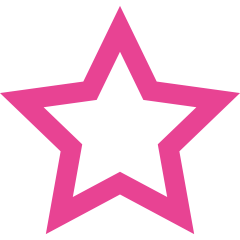
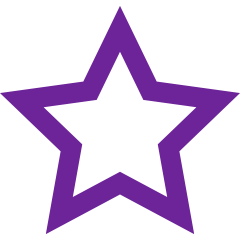
Update Board component

Changed region(s): [[0.0, 0.0292, 1.0, 0.9917]]

diff --git a/src/Components/BoardCard.js b/src/Components/BoardCard.js
@@ -1,14 +1,16 @@
-import React from "react";
+import React, { useState } from "react";
 import styled from "styled-components";
 import twitchLogo from "../Assets/Twitch/TwitchLogo.png";
-import emptyStar from "../Assets/Common/EmptyStar.png";
+// import emptyStar from "../Assets/Common/EmptyStar.png";
 import fullStar from "../Assets/Common/FullStar.png";
+// import lightEmptyStar from "../Assets/Common/LightEmptyStar.png";
+import lightFullStar from "../Assets/Common/LightFullStar.png";
 // import emblemIron from "../Assets/League/EmblemIron.png";
 // import emblemBronze from "../Assets/League/EmblemBronze.png";
 // import emblemSilver from "../Assets/League/EmblemSilver.png";
 // import emblemGold from "../Assets/League/EmblemGold.png";
-import emblemPlatinum from "../Assets/League/EmblemPlatinum.png";
-// import emblemDiamond from "../Assets/League/EmblemDiamond.png";
+// import emblemPlatinum from "../Assets/League/EmblemPlatinum.png";
+import emblemDiamond from "../Assets/League/EmblemDiamond.png";
 // import emblemMaster from "../Assets/League/EmblemMaster.png";
 // import emblemGrandmaster from "../Assets/League/EmblemGrandmaster.png";
 // import emblemChallenger from "../Assets/League/EmblemChallenger.png";
@@ -74,7 +76,7 @@ const BroadPlatform = styled.div`
 `;
 
 const LeagueSNameBox = styled.div`
-  width: 19%;
+  width: 17%;
   display: flex;
   justify-content: flex-start;
   align-items: center;
@@ -122,7 +124,7 @@ const LeagueRankText = styled.div`
 const LeaguePointsText = styled.div``;
 
 const LeagueWinRateBox = styled.div`
-  width: 14%;
+  width: 16%;
   display: flex;
   justify-content: center;
   align-items: center;
@@ -130,15 +132,52 @@ const LeagueWinRateBox = styled.div`
   border-right: 1px solid ${props => props.theme.lightGrayColor};
 `;
 
+const LeagueWinRateBar = styled.div`
+  display: flex;
+  width: 60%;
+  height: 70%;
+  margin-right: 8px;
+  border: 1px solid ${props => props.theme.lightGrayColor};
+  border-radius: 7px;
+`;
+
+const LeagueWinsBar = styled.div`
+  width: 63%;
+  height: 100%;
+  display: flex;
+  justify-content: flex-start;
+  align-items: center;
+  background-color: ${props => props.theme.mainColor};
+  border-top-left-radius: 6px;
+  border-bottom-left-radius: 6px;
+`;
+
+const LeagueLossesBar = styled.div`
+  width: 37%;
+  height: 100%;
+  display: flex;
+  justify-content: flex-end;
+  align-items: center;
+  background-color: ${props => props.theme.lightMainColor};
+  border-top-right-radius: 6px;
+  border-bottom-right-radius: 6px;
+`;
+
 const LeagueWinsText = styled.div`
-  margin-right: 5px;
+  font-size: 12px;
+  margin-left: 5px;
+  color: white;
 `;
 
 const LeagueLossesText = styled.div`
+  font-size: 12px;
   margin-right: 5px;
+  color: white;
 `;
 
-const LeagueWinRateText = styled.div``;
+const LeagueWinRateText = styled.div`
+  font-size: 13px;
+`;
 
 const LeagueFavBox = styled.div`
   width: 7%;
@@ -153,9 +192,17 @@ const LeagueFavStar = styled.div`
   height: 20px;
   background-image: url(${props => props.url});
   background-size: cover;
+  cursor: pointer;
 `;
 
 export default () => {
+  const [focused, setFocused] = useState(false);
+  const onMouseOut = () => {
+    setFocused(false);
+  };
+  const onMouseOver = () => {
+    setFocused(true);
+  };
   return (
     <BoardTableDiv>
       <TableRankBox>
@@ -180,18 +227,28 @@ export default () => {
         <LeagueSNameText>소환사명 최대 글자</LeagueSNameText>
       </LeagueSNameBox>
       <LeagueTierBox>
-        <LeagueTierEmblem url={emblemPlatinum} />
+        <LeagueTierEmblem url={emblemDiamond} />
         <LeagueTierText>다이아몬드</LeagueTierText>
-        <LeagueRankText>Ⅲ</LeagueRankText>
+        <LeagueRankText>Ⅳ</LeagueRankText>
         <LeaguePointsText>(100 LP)</LeaguePointsText>
       </LeagueTierBox>
       <LeagueWinRateBox>
-        <LeagueWinsText>138승</LeagueWinsText>
-        <LeagueLossesText>123패</LeagueLossesText>
-        <LeagueWinRateText>52%</LeagueWinRateText>
+        <LeagueWinRateBar>
+          <LeagueWinsBar>
+            <LeagueWinsText>138승</LeagueWinsText>
+          </LeagueWinsBar>
+          <LeagueLossesBar>
+            <LeagueLossesText>123패</LeagueLossesText>
+          </LeagueLossesBar>
+        </LeagueWinRateBar>
+        <LeagueWinRateText>63%</LeagueWinRateText>
       </LeagueWinRateBox>
       <LeagueFavBox>
-        <LeagueFavStar url={fullStar} />
+        <LeagueFavStar
+          onMouseOver={() => onMouseOver()}
+          onMouseOut={() => onMouseOut()}
+          url={focused ? fullStar : lightFullStar}
+        />
       </LeagueFavBox>
     </BoardTableDiv>
   );

diff --git a/src/Components/Header.js b/src/Components/Header.js
@@ -2,6 +2,7 @@ import React, { useState } from "react";
 import styled from "styled-components";
 import HeaderLeague from "../Routes/Header/HeaderLeague";
 import leagueIcon from "../Assets/League/LeagueIcon.png";
+import Theme from "../Styles/Theme";
 
 const Header = styled.header`
   position: fixed;
@@ -53,30 +54,26 @@ const LoginButton = styled.div`
   margin-right: 15px;
   margin-left: 15px;
   padding: 10px;
-  border: 2px solid ${props => props.theme.btnColor};
+  border: 2px solid ${props => props.theme.lightMainColor};
   border-radius: 4px;
-  opacity: 0.8;
   cursor: pointer;
 `;
 
 const LoginText = styled.div`
-  color: ${props => props.theme.btnColor};
+  color: ${props => props.theme.lightMainColor};
   user-select: none;
 `;
 
-const LinkButton = styled.div`
+const MapButton = styled.div`
   margin-left: 20px;
-  background-color: ${props => props.theme.btnColor};
+  background-color: ${props => props.theme.lightMainColor};
   padding: 10px;
-  border: 2px solid ${props => props.theme.btnColor};
+  border: 2px solid ${props => props.theme.lightMainColor};
   border-radius: 4px;
-  :focus {
-    opacity: 0.2;
-  }
   cursor: pointer;
 `;
 
-const LinkText = styled.div`
+const MapText = styled.div`
   color: ${props => props.theme.whiteColor};
   user-select: none;
 `;
@@ -108,14 +105,12 @@ const HeaderBot = styled.div`
 `;
 
 export default () => {
-  const [selected, setSelected] = useState(0);
-  const [opacity, setOpacity] = useState(0.8);
+  const [focused, setFocused] = useState(0);
   const onMouseOut = () => {
-    setSelected(0);
+    setFocused(0);
   };
   const onMouseOver = num => {
-    setSelected(num);
-    setOpacity(1.0);
+    setFocused(num);
   };
   return (
     <Header>
@@ -130,17 +125,25 @@ export default () => {
             <PageIcon url={leagueIcon} />
             <PageText>리그 오브 레전드</PageText>
           </PageBox>
-          <LinkButton
+          <MapButton
             onMouseOver={() => onMouseOver(1)}
             onMouseOut={() => onMouseOut()}
-            style={{ opacity: selected === 1 ? opacity : 0.8 }}
+            style={{
+              backgroundColor:
+                focused === 1 ? Theme.mainColor : Theme.lightMainColor,
+              borderColor:
+                focused === 1 ? Theme.mainColor : Theme.lightMainColor
+            }}
           >
-            <LinkText>와쳐스 맵</LinkText>
-          </LinkButton>
+            <MapText>와쳐스 맵</MapText>
+          </MapButton>
           <LoginButton
             onMouseOver={() => onMouseOver(2)}
             onMouseOut={() => onMouseOut()}
-            style={{ opacity: selected === 2 ? opacity : 0.8 }}
+            style={{
+              borderColor:
+                focused === 2 ? Theme.mainColor : Theme.lightMainColor
+            }}
           >
             <LoginText>로그인</LoginText>
           </LoginButton>

diff --git a/src/Components/BoardTable.js b/src/Components/BoardTable.js
@@ -8,8 +8,7 @@ const BoardTableDiv = styled.div`
   width: 100%;
   height: 40px;
   border: 1px solid ${props => props.theme.lightGrayColor};
-  background-color: ${props => props.theme.pinkColor};
-  opacity: 0.8;
+  background-color: ${props => props.theme.lightMainColor};
   user-select: none;
   padding: 10px 0px;
   color: ${props => props.theme.whiteColor};
@@ -37,7 +36,7 @@ const BroadInfoBox = styled.div`
 const BroadInfoText = styled.div``;
 
 const LeagueSNameBox = styled.div`
-  width: 19%;
+  width: 17%;
   display: flex;
   justify-content: center;
   align-items: center;
@@ -57,7 +56,7 @@ const LeagueTierBox = styled.div`
 const LeagueTierText = styled.div``;
 
 const LeagueWinRateBox = styled.div`
-  width: 14%;
+  width: 16%;
   display: flex;
   justify-content: center;
   align-items: center;

diff --git a/src/Styles/Theme.js b/src/Styles/Theme.js
@@ -1,17 +1,10 @@
-const BOX_BORDER = "1px solid #e6e6e6";
-const BORDER_RADIUS = "4px";
-
 export default {
   bgColor: "#f5f5f5",
-  btnColor: "#e84393",
   whiteColor: "#FFFFFF",
   blackColor: "#000000",
   darkGrayColor: "#2d3436",
   grayColor: "#636e72",
   lightGrayColor: "#b2bec3",
-  pinkColor: "#e84393",
-  whiteBox: `border-radius:${BORDER_RADIUS};
-             border:${BOX_BORDER};
-             background-color:white;
-  `
+  mainColor: "#6C2498",
+  lightMainColor: "#874EAB"
 };

diff --git a/src/Styles/GlobalStyles.js b/src/Styles/GlobalStyles.js
@@ -57,7 +57,7 @@ export default createGlobalStyle`
         font-size: 14px;
     }
     a {
-        /* text-decoration:none; */
+        text-decoration:none;
     }
     input {
         outline:none;
